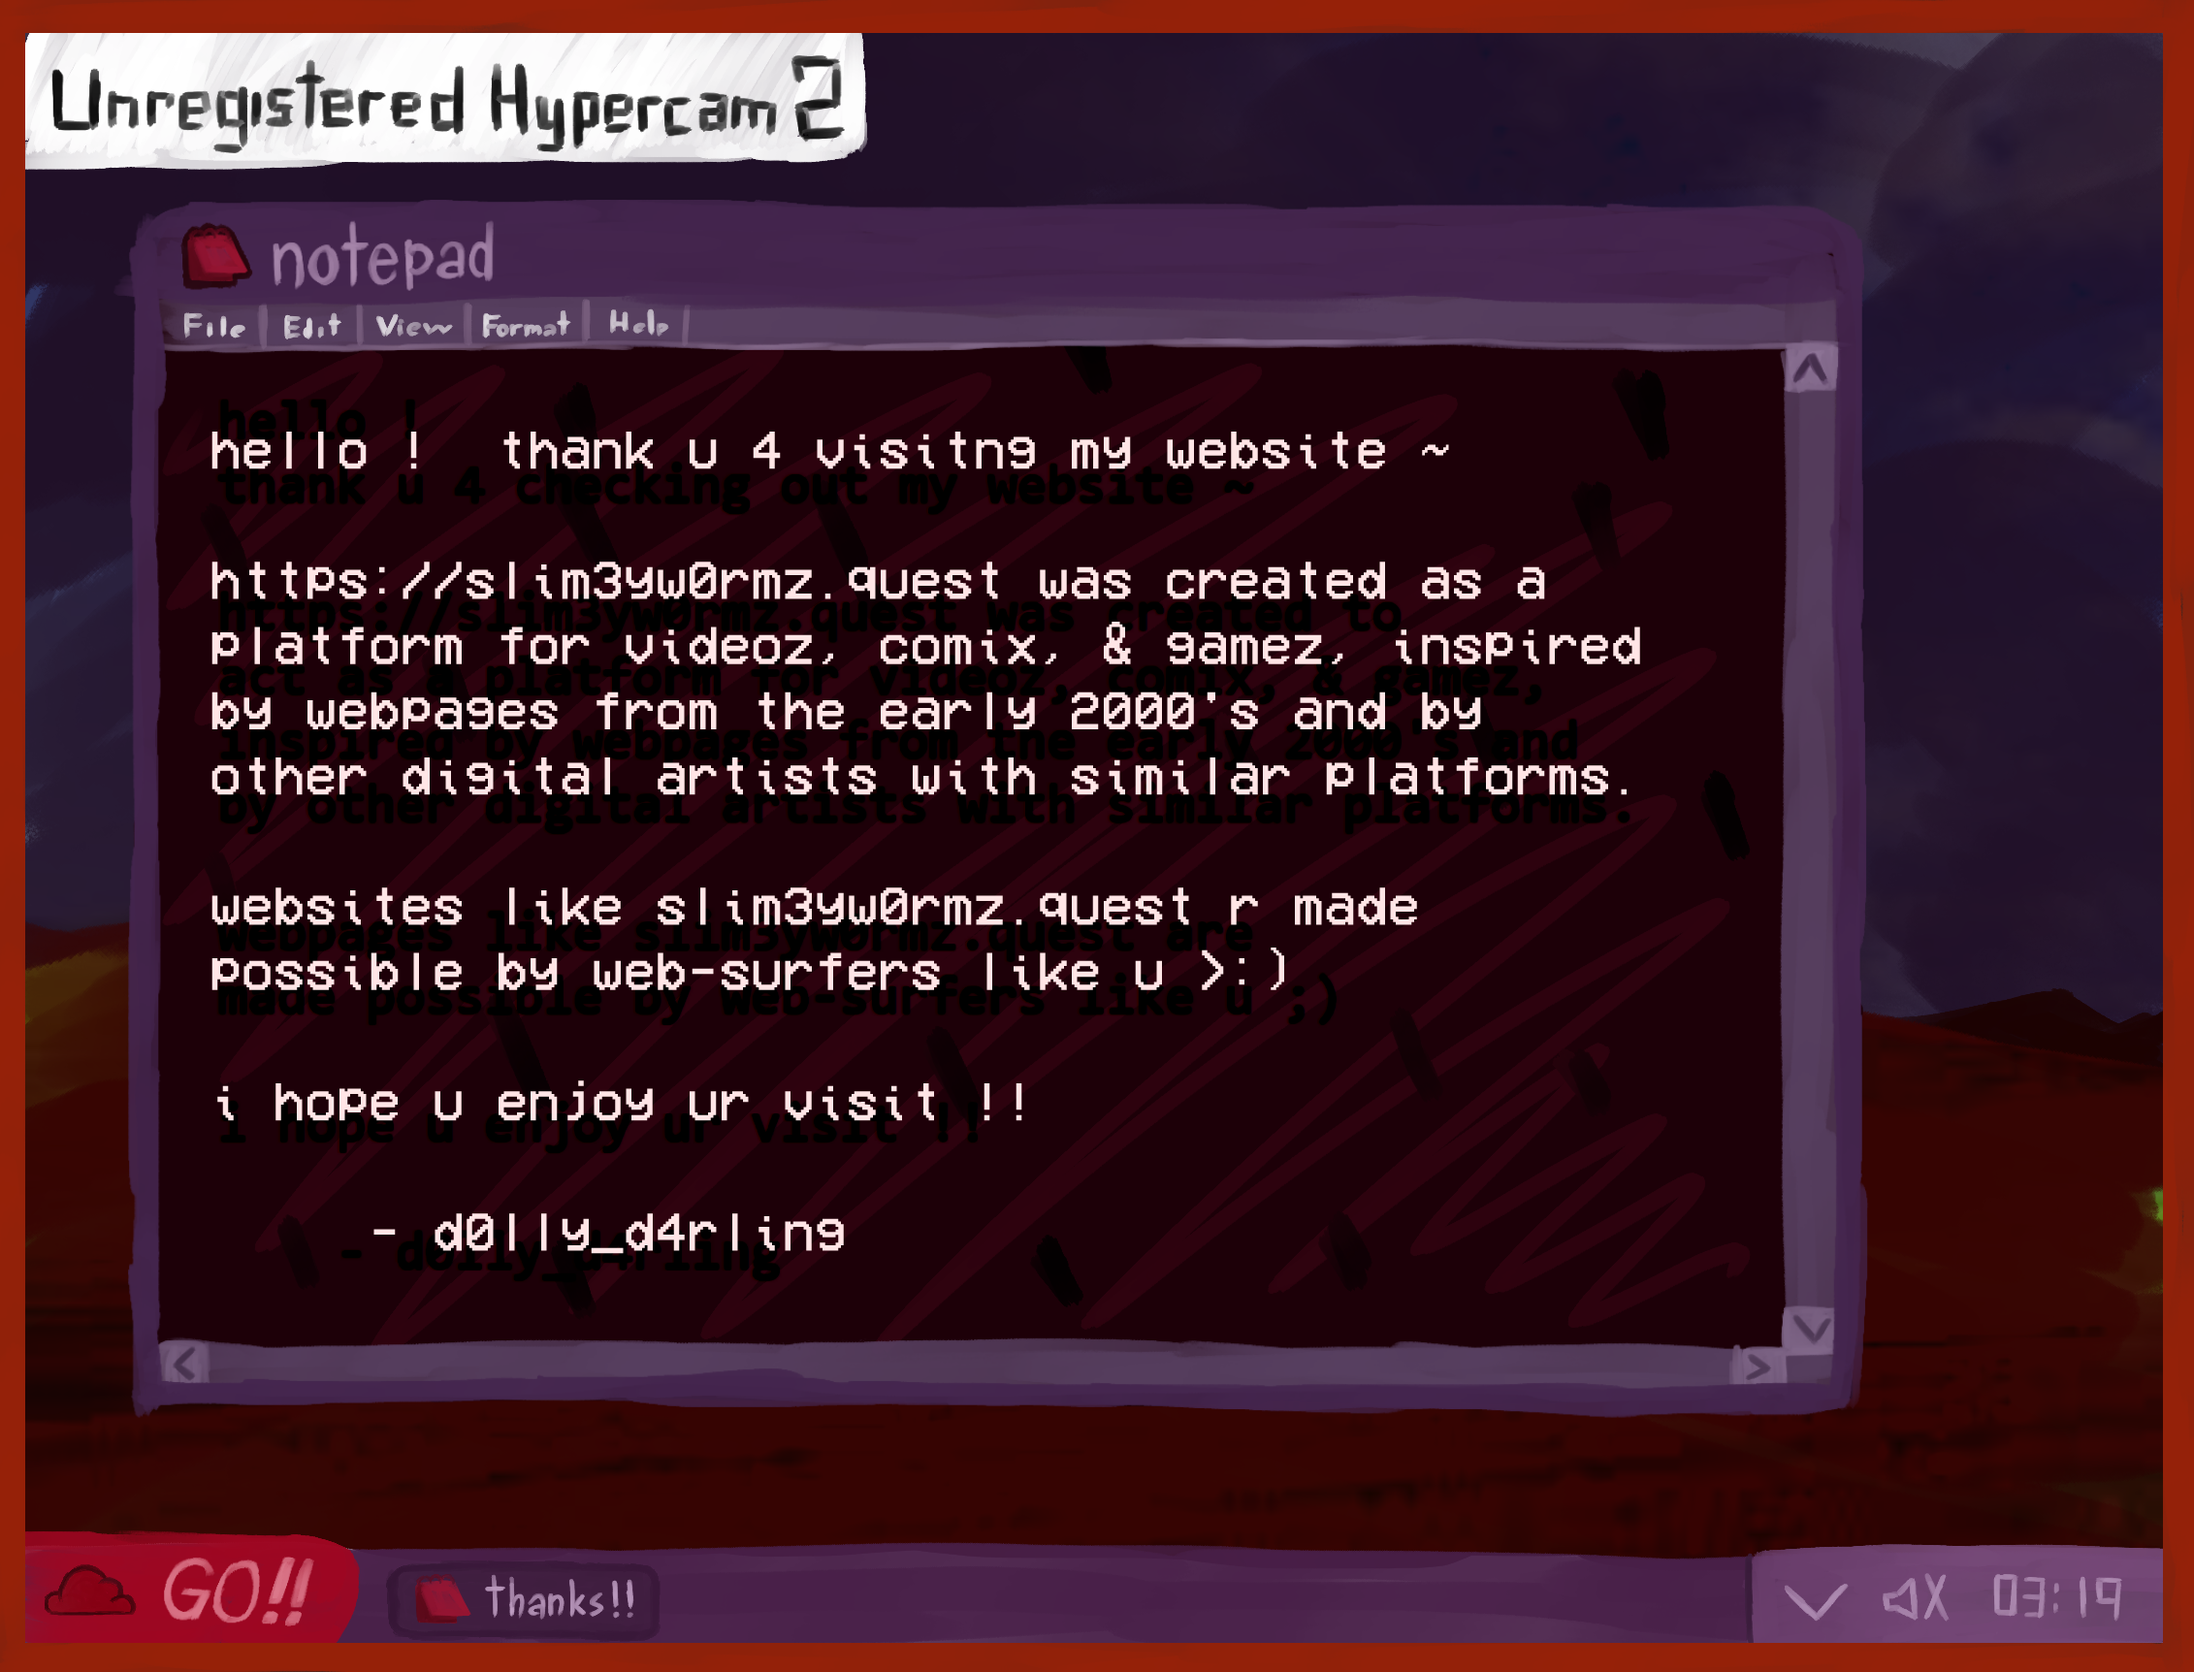
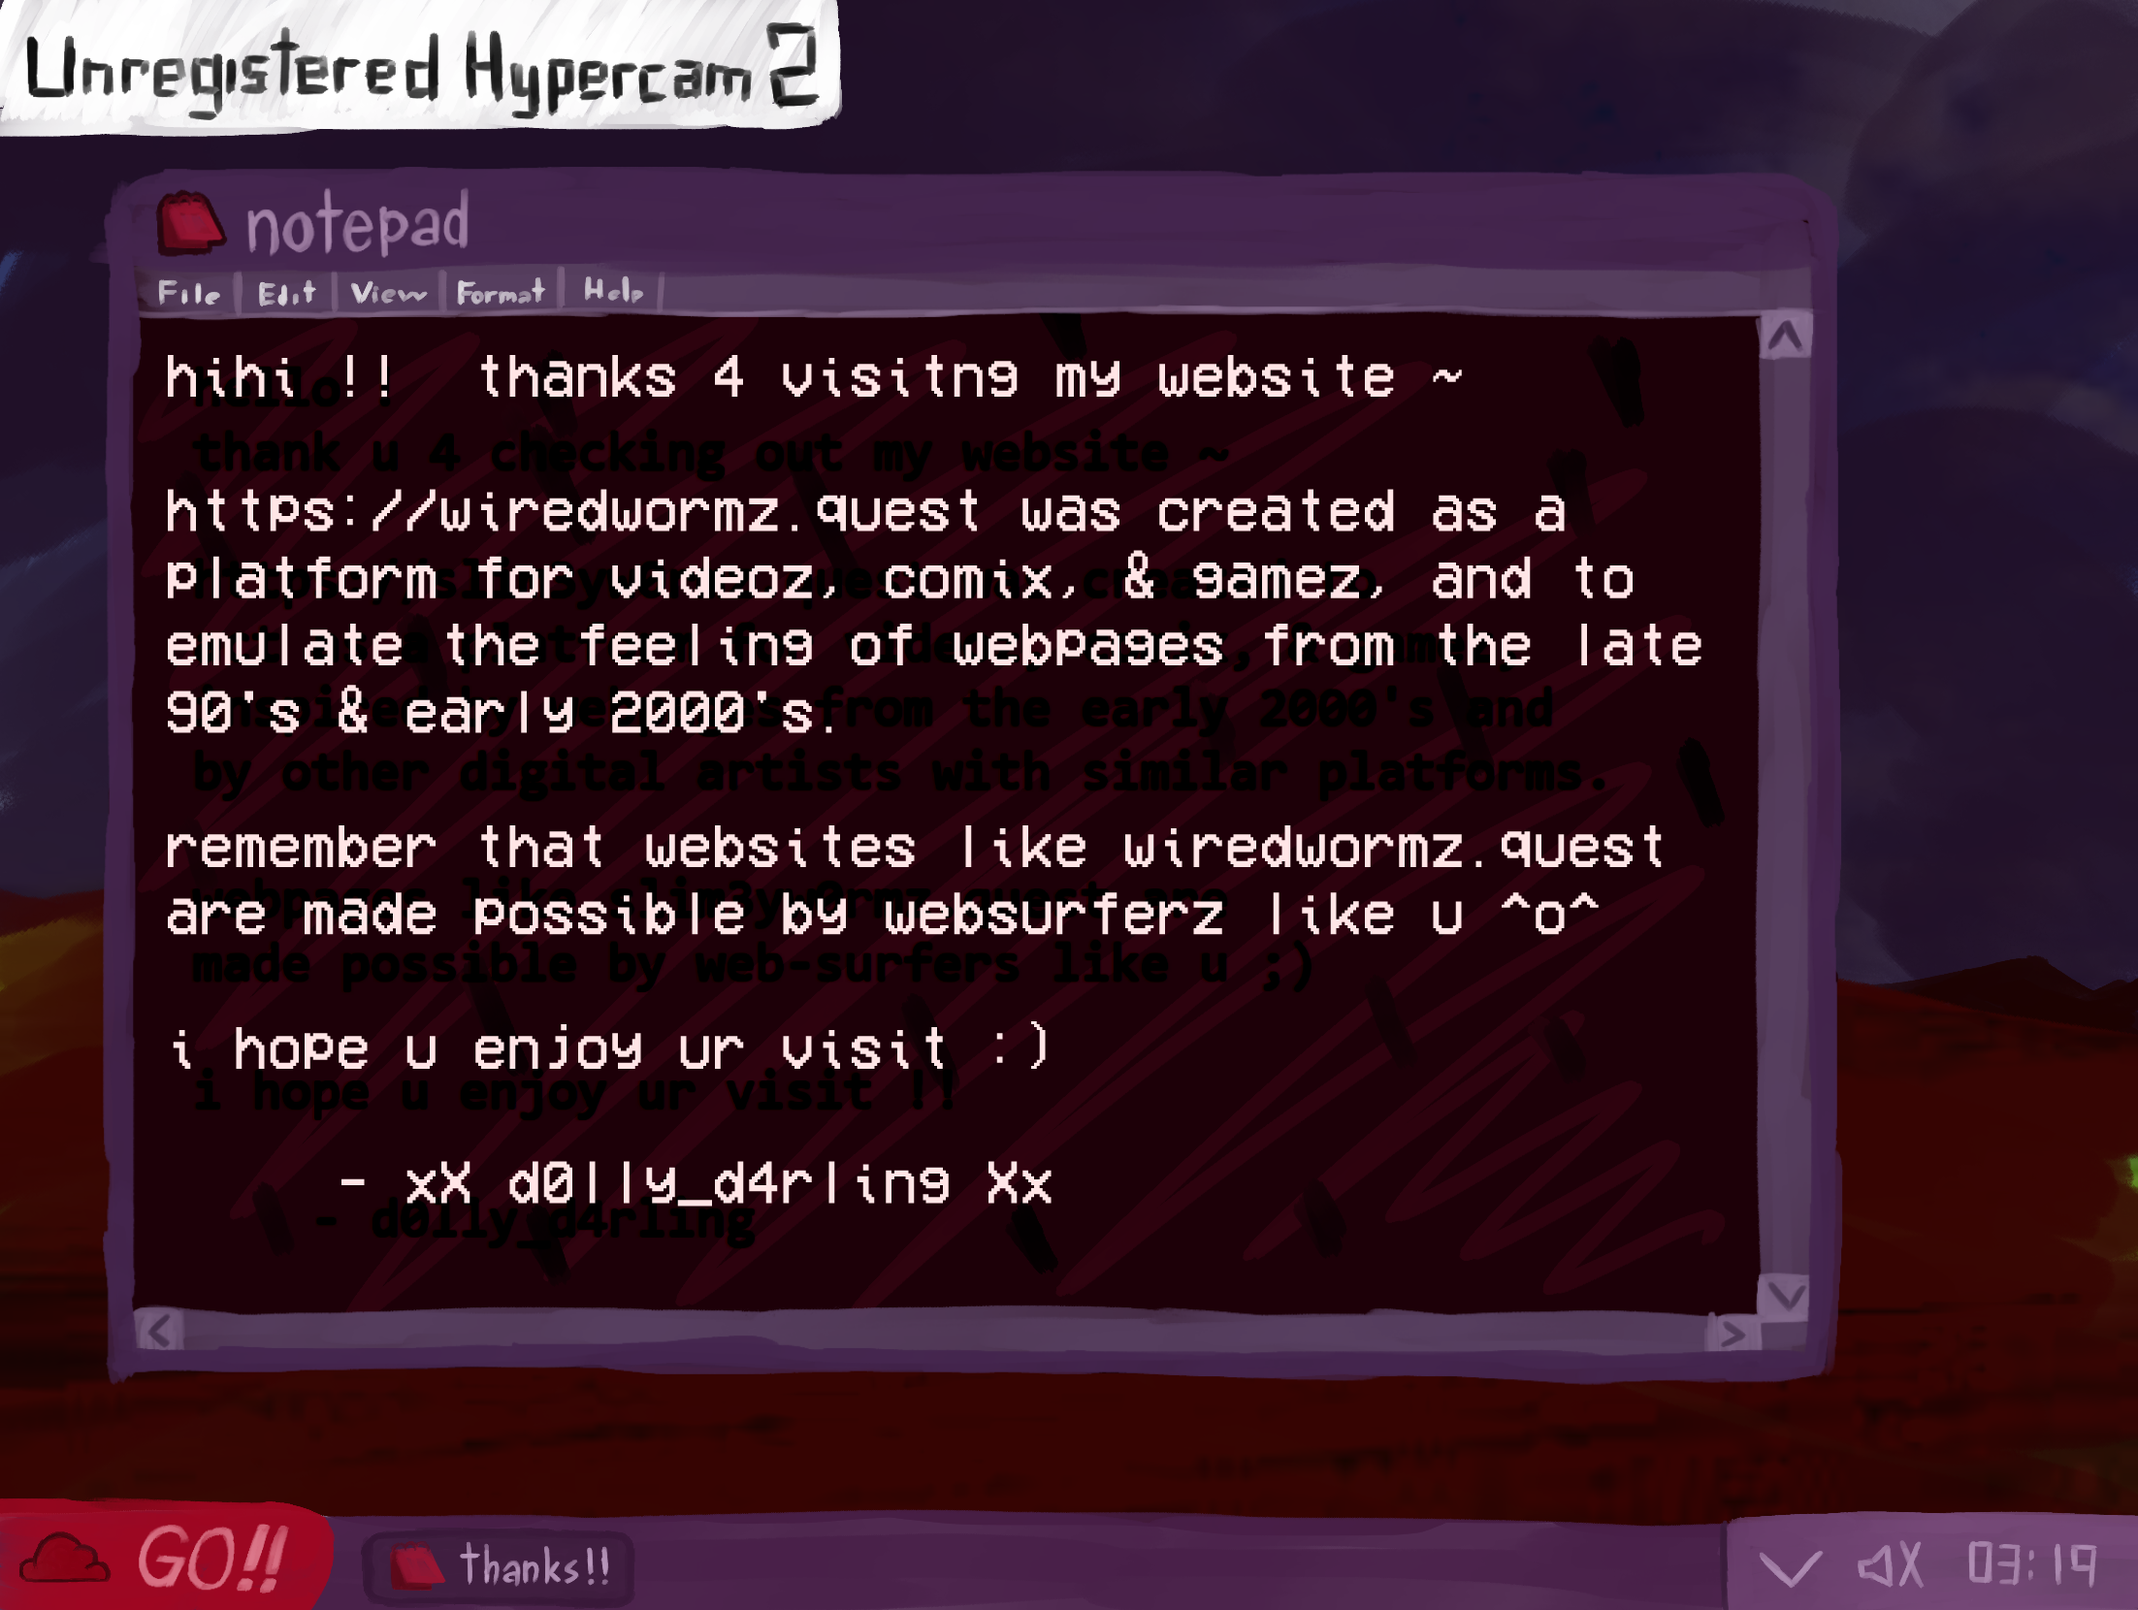
adding homepage

Changed region(s): [[0.0, 0.0, 1.0, 1.0]]

diff --git a/home.html b/home.html
@@ -1,0 +1,94 @@
+<html lang="en">
+<head><title>Welcome in, Websurferz !!</title>
+	<link rel="icon" href="images/icons/eye_icon.png">
+		<style>
+			body
+			{
+			background-image: url("images/wormz_tile.png");
+			color: #eedff1;
+			background-color: black;
+			font-size: 40;
+			font-family: "Comic sans MS";
+			text-align: center;
+			}
+		</style>
+	</head>
+<body>
+
+		<!-- T A B L E -->
+		
+		<table align="center">
+			<tr>
+				<td> <img src="images/header.png" width="800" height="261" border="0" usemap="#headermap" /> 
+					<map name="headermap">
+						<!-- #$-:Image map file created by GIMP Image Map plug-in -->
+						<!-- #$-:GIMP Image Map plug-in by Maurits Rijk -->
+						<!-- #$-:Please do not edit lines starting with "#$" -->
+						<!-- #$VERSION:2.3 -->
+						<!-- #$AUTHOR:Simonne Louise -->
+						<area shape="rect" coords="5,6,304,243" href="https://wiredwormz.quest/home" />
+						<area shape="rect" coords="374,77,469,237" href="https://wiredwormz.quest/info" />
+						<area shape="rect" coords="475,78,594,237" href="https://wiredwormz.quest/vault" />
+						<area shape="rect" coords="601,81,742,236" href="https://wiredwormz.quest/connect" />
+					</map>
+				</td>
+				<td>
+				<a href="https://wiredwormz.bandcamp.com">
+				<img src="images/mp3player.png" width="473" height="270" style="margin-top: 87px;" >
+				</a>
+				</td>
+			</tr>
+			<tr>
+				<td> <br> <iframe width="844" height="475" style="margin-left: 140px" src="https://www.youtube-nocookie.com/embed/Bsg38462c_g" title="YouTube video player" frameborder="0" allow="accelerometer; autoplay; clipboard-write; encrypted-media; gyroscope; picture-in-picture" allowfullscreen></iframe>  </td>
+					
+				<td> <img src="images/advert/trickster_ad.png" style="margin: 0px 0px 35px 30px " /> </td>
+			</tr>
+			<tr>
+				<td>
+				<a href="https://slim3yw0rmz.quest/congratulations">
+				<img src="images/advert/doll.png" alt="Buy it now !!" width="844" height="200" style="margin-left: 140px" >
+				</a>
+				</td>
+				
+				<td> <a href="https://slim3yw0rmz.quest/animalz">
+				<img src="images/advert/random_ad.png" style="margin-left: 30px" >
+				</a>
+<				</td>
+			</tr>
+			<tr>
+				<td>
+				<br><br> <img src="images/weblinx.png" width="934" height="1489" style="margin-left: 80px" border="0" usemap="#linksmap" />
+					<map name="linksmap">
+					<!-- #$-:Image map file created by GIMP Image Map plug-in -->
+					<!-- #$-:GIMP Image Map plug-in by Maurits Rijk -->
+					<!-- #$-:Please do not edit lines starting with "#$" -->
+					<!-- #$VERSION:2.3 -->
+					<!-- #$AUTHOR:Simonne Louise -->
+					<area shape="rect" coords="73,279,801,627" href="https://slim3yw0rmz.quest/siteblog" />
+					<area shape="rect" coords="74,677,801,1030" href="https://slim3yw0rmz.quest/vivianwiki" />
+					<area shape="rect" coords="72,1090,805,1445" href="https://slim3yw0rmz.quest/d0llyd4rling" />
+					</map>
+				</td>
+				<td> <br><br> <img src="images/advert/nitro.gif" style="margin: 0px 0px 800px 35px " /> </td>
+		</table>
+		<br>
+		 
+		
+		<!-- F O O T E R -->
+		
+		
+		<img src="images/donate.png" width="917" height="151" border="0" align="center" usemap="#donate_map" />
+		<map name="donate_map">
+			<!-- #$-:Image map file created by GIMP Image Map plug-in -->
+			<!-- #$-:GIMP Image Map plug-in by Maurits Rijk -->
+			<!-- #$-:Please do not edit lines starting with "#$" -->
+			<!-- #$VERSION:2.3 -->
+			<!-- #$AUTHOR:Simonne Louise -->
+			<area shape="poly" coords="365,10,363,109,551,19" href="https://www.patreon.com/slim3y_w0rmz" />
+			<area shape="poly" coords="368,117,546,117,549,39" href="https://ko-fi.com/slim3y_w0rmz" />
+		</map>
+		<br>
+		<a href="https://slim3yw0rmz.quest/">(c) 2002-2022 SLIM3Y_W0RMZ <a/>
+		<br>		
+	</body>
+</html>

diff --git a/info.html b/info.html
@@ -1,0 +1,53 @@
+<html lang="en">
+	<head><title>Learn more about this site...</title>
+		<link rel="icon" href="o_0_favicon.png">
+			<style>
+				body
+				{
+				background-image: url("images/wormz_tile.png");
+				color: #eedff1;
+				background-color: black;
+				font-size: 40;
+				font-family: "Comic sans MS";
+				text-align: center;
+				}
+			</style>
+	</head>
+	<body>
+	
+	<!-- Header -->
+		<img src="images/tvheader.png" width="1000" height="431" border="0" usemap="#headermap" />
+
+		<map name="headermap">
+		<!-- #$-:Image map file created by GIMP Image Map plug-in -->
+		<!-- #$-:GIMP Image Map plug-in by Maurits Rijk -->
+		<!-- #$-:Please do not edit lines starting with "#$" -->
+		<!-- #$VERSION:2.3 -->
+		<!-- #$AUTHOR:Simonne Louise -->
+		<area shape="poly" coords="23,140,391,94,368,417,55,416" href="https://slim3yw0rmz.quest/home" />
+		<area shape="poly" coords="410,152,381,386,600,387,566,305,560,146" href="https://slim3yw0rmz.quest/socials" />
+		<area shape="poly" coords="572,146,577,301,611,386,796,383,764,304,756,144" href="https://slim3yw0rmz.quest/about" />
+		<area shape="poly" coords="766,146,775,296,805,380,984,381,959,301,943,147" href="https://slim3yw0rmz.quest/contact" />
+		</map>
+		
+		<br><br>
+		<a href="https://slim3yw0rmz.quest/d0llyd4rling">
+		<img src="images/about.png" width="1000" height="753" alt="About this Site" />
+		</a>
+		<br><br><br>
+		
+			
+		<img src="images/donate.png" width="917" height="151" border="0" usemap="#border_map" />
+		<map name="border_map">
+			<!-- #$-:Image map file created by GIMP Image Map plug-in -->
+			<!-- #$-:GIMP Image Map plug-in by Maurits Rijk -->
+			<!-- #$-:Please do not edit lines starting with "#$" -->
+			<!-- #$VERSION:2.3 -->
+			<!-- #$AUTHOR:Simonne Louise -->
+			<area shape="poly" coords="365,10,363,109,551,19" href="https://www.patreon.com/slim3y_w0rmz" />
+			<area shape="poly" coords="368,117,546,117,549,39" href="https://ko-fi.com/slim3y_w0rmz" />
+		<br>
+		<a href="https://slim3yw0rmz.quest/">(c) 2002-2022 SLIM3Y_W0RMZ <a/>
+		<br>
+	</body>
+</html>

diff --git a/connect.html b/connect.html
@@ -1,0 +1,55 @@
+<html lang="en">
+	<head><title>Letz get connected :)</title>
+		<link rel="icon" href="o_0_favicon.png">
+			<style>
+				body
+				{
+				background-image: url("images/wormz_tile.png");
+				color: #eedff1;
+				background-color: black;
+				font-size: 40;
+				font-family: "Comic sans MS";
+				text-align: center;
+				}
+			</style>
+	</head>
+	<body>
+	
+	<!-- Header -->
+		<img src="images/tvheader.png" width="1000" height="431" border="0" usemap="#headermap" />
+
+		<map name="headermap">
+		<!-- #$-:Image map file created by GIMP Image Map plug-in -->
+		<!-- #$-:GIMP Image Map plug-in by Maurits Rijk -->
+		<!-- #$-:Please do not edit lines starting with "#$" -->
+		<!-- #$VERSION:2.3 -->
+		<!-- #$AUTHOR:Simonne Louise -->
+		<area shape="poly" coords="23,140,391,94,368,417,55,416" href="https://slim3yw0rmz.quest/home" />
+		<area shape="poly" coords="410,152,381,386,600,387,566,305,560,146" href="https://slim3yw0rmz.quest/socials" />
+		<area shape="poly" coords="572,146,577,301,611,386,796,383,764,304,756,144" href="https://slim3yw0rmz.quest/about" />
+		<area shape="poly" coords="766,146,775,296,805,380,984,381,959,301,943,147" href="https://slim3yw0rmz.quest/contact" />
+		</map>
+		
+		
+		<br><br>
+		<a href="mailto:slim3yw0rmz.queries@aol.com">
+		<img src="images/email.png" width="1000" height="1000" Alt="Send Now !!" />
+		</a>
+		
+		<br><br><br>
+		
+			
+		<img src="images/donate.png" width="917" height="151" border="0" usemap="#border_map" />
+		<map name="border_map">
+			<!-- #$-:Image map file created by GIMP Image Map plug-in -->
+			<!-- #$-:GIMP Image Map plug-in by Maurits Rijk -->
+			<!-- #$-:Please do not edit lines starting with "#$" -->
+			<!-- #$VERSION:2.3 -->
+			<!-- #$AUTHOR:Simonne Louise -->
+			<area shape="poly" coords="365,10,363,109,551,19" href="https://www.patreon.com/slim3y_w0rmz" />
+			<area shape="poly" coords="368,117,546,117,549,39" href="https://ko-fi.com/slim3y_w0rmz" />
+		<br>
+		<a href="https://slim3yw0rmz.quest/">(c) 2002-2022 SLIM3Y_W0RMZ <a/>
+		<br>
+	</body>
+</html>

diff --git a/[header] (imported).html b/[header] (imported).html
@@ -1,0 +1,13 @@
+<img src="[header] (imported)" width="800" height="261" border="0" usemap="#map" />
+
+<map name="map">
+<!-- #$-:Image map file created by GIMP Image Map plug-in -->
+<!-- #$-:GIMP Image Map plug-in by Maurits Rijk -->
+<!-- #$-:Please do not edit lines starting with "#$" -->
+<!-- #$VERSION:2.3 -->
+<!-- #$AUTHOR:mo.exe -->
+<area shape="rect" coords="5,6,304,243" href="https://wiredwormz.quest/home" />
+<area shape="rect" coords="374,77,469,237" href="https://wiredwormz.quest/info" />
+<area shape="rect" coords="475,78,594,237" href="https://wiredwormz.quest/vault" />
+<area shape="rect" coords="601,81,742,236" href="https://wiredwormz.quest/connect" />
+</map>

diff --git a/index.html b/index.html
@@ -1,6 +1,6 @@
 <html lang="en">
 <head><title>[ask ur parentz b4 entering]</title>
-	<link rel="icon" href="images/icons">
+	<link rel="icon" href="images/icons/eye_icon.png">
 		<style>
 			body
 			{
